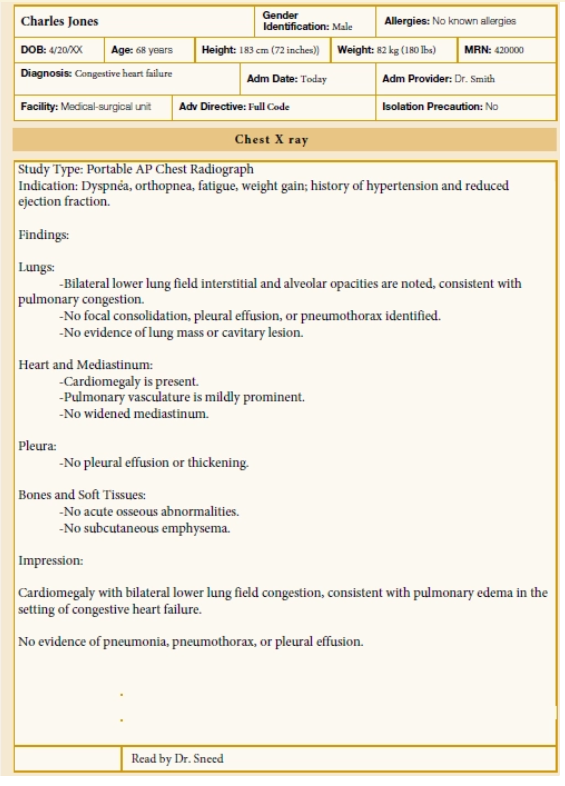
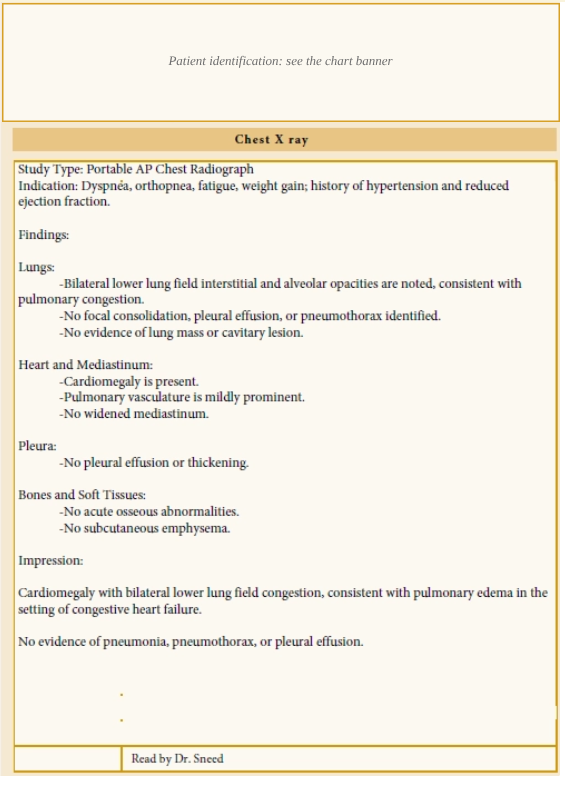
Charles Jones: cover the old patient header on the Echo and admission X-ray sheets
The report sheets' header block (82 kg, MRN 420000, Dr. Smith) is covered with a blank
box ("Patient identification: see the chart banner"). The Echo uses a covered copy,
assets/charles-jones-echo.png; the imported image file is unchanged. Chart data and
wristbands unchanged. Version 2026.11.03-3.

Claude-Session: https://claude.ai/code/session_018ci6X4K4BqD36rfruEnNmX

Changed region(s): [[0.0, 0.0, 0.9929, 0.1527]]

diff --git a/index.html b/index.html
@@ -5,50 +5,50 @@
   <meta name="viewport" content="width=device-width, initial-scale=1">
   <meta name="robots" content="noindex">
   <title>ATU Simulation Hospital EHR</title>
-  <link rel="stylesheet" href="css/styles.css?v=2026.11.03-2">
+  <link rel="stylesheet" href="css/styles.css?v=2026.11.03-3">
 </head>
 <body>
   <div id="app" aria-live="polite"></div>
   <div id="modal-root"></div>
   <noscript>This simulation EHR requires JavaScript.</noscript>
 
-  <script src="js/config.js?v=2026.11.03-2"></script>
-  <script src="js/data/patients.js?v=2026.11.03-2"></script>
-  <script src="js/data/patients-imported.js?v=2026.11.03-2"></script>
-  <script src="js/data/atu-order-updates.js?v=2026.11.03-2"></script>
-  <script src="js/data/atu-scenario-updates.js?v=2026.11.03-2"></script>
-  <script src="js/data/atu-barcodes.js?v=2026.11.03-2"></script>
-  <script src="js/data/charles-single-releases.js?v=2026.11.03-2"></script>
-  <script src="js/data/assessment-forms.js?v=2026.11.03-2"></script>
-  <script src="js/util.js?v=2026.11.03-2"></script>
-  <script src="js/scan.js?v=2026.11.03-2"></script>
-  <script src="js/camera.js?v=2026.11.03-2"></script>
-  <script src="js/store.js?v=2026.11.03-2"></script>
-  <script src="js/shared.js?v=2026.11.03-2"></script>
-  <script src="js/model.js?v=2026.11.03-2"></script>
-  <script src="js/ui.js?v=2026.11.03-2"></script>
-  <script src="js/views/summary.js?v=2026.11.03-2"></script>
-  <script src="js/views/worklist.js?v=2026.11.03-2"></script>
-  <script src="js/views/orders.js?v=2026.11.03-2"></script>
-  <script src="js/views/mar.js?v=2026.11.03-2"></script>
-  <script src="js/views/vitals.js?v=2026.11.03-2"></script>
-  <script src="js/views/assess.js?v=2026.11.03-2"></script>
-  <script src="js/views/newborn.js?v=2026.11.03-2"></script>
-  <script src="js/views/sung-transitional-record.js?v=2026.11.03-2"></script>
-  <script src="js/views/io.js?v=2026.11.03-2"></script>
-  <script src="js/views/notes.js?v=2026.11.03-2"></script>
-  <script src="js/views/results.js?v=2026.11.03-2"></script>
-  <script src="js/views/careplan.js?v=2026.11.03-2"></script>
-  <script src="js/views/history.js?v=2026.11.03-2"></script>
-  <script src="js/views/admin.js?v=2026.11.03-2"></script>
-  <script src="js/views/protocol.js?v=2026.11.03-2"></script>
-  <script src="js/views/heparin.js?v=2026.11.03-2"></script>
-  <script src="js/views/tar.js?v=2026.11.03-2"></script>
-  <script src="js/views/report.js?v=2026.11.03-2"></script>
-  <script src="js/views/extra.js?v=2026.11.03-2"></script>
-  <script src="js/views/chartsearch.js?v=2026.11.03-2"></script>
-  <script src="js/views/app-screens.js?v=2026.11.03-2"></script>
-  <script src="js/views/barcodes.js?v=2026.11.03-2"></script>
-  <script src="js/app.js?v=2026.11.03-2"></script>
+  <script src="js/config.js?v=2026.11.03-3"></script>
+  <script src="js/data/patients.js?v=2026.11.03-3"></script>
+  <script src="js/data/patients-imported.js?v=2026.11.03-3"></script>
+  <script src="js/data/atu-order-updates.js?v=2026.11.03-3"></script>
+  <script src="js/data/atu-scenario-updates.js?v=2026.11.03-3"></script>
+  <script src="js/data/atu-barcodes.js?v=2026.11.03-3"></script>
+  <script src="js/data/charles-single-releases.js?v=2026.11.03-3"></script>
+  <script src="js/data/assessment-forms.js?v=2026.11.03-3"></script>
+  <script src="js/util.js?v=2026.11.03-3"></script>
+  <script src="js/scan.js?v=2026.11.03-3"></script>
+  <script src="js/camera.js?v=2026.11.03-3"></script>
+  <script src="js/store.js?v=2026.11.03-3"></script>
+  <script src="js/shared.js?v=2026.11.03-3"></script>
+  <script src="js/model.js?v=2026.11.03-3"></script>
+  <script src="js/ui.js?v=2026.11.03-3"></script>
+  <script src="js/views/summary.js?v=2026.11.03-3"></script>
+  <script src="js/views/worklist.js?v=2026.11.03-3"></script>
+  <script src="js/views/orders.js?v=2026.11.03-3"></script>
+  <script src="js/views/mar.js?v=2026.11.03-3"></script>
+  <script src="js/views/vitals.js?v=2026.11.03-3"></script>
+  <script src="js/views/assess.js?v=2026.11.03-3"></script>
+  <script src="js/views/newborn.js?v=2026.11.03-3"></script>
+  <script src="js/views/sung-transitional-record.js?v=2026.11.03-3"></script>
+  <script src="js/views/io.js?v=2026.11.03-3"></script>
+  <script src="js/views/notes.js?v=2026.11.03-3"></script>
+  <script src="js/views/results.js?v=2026.11.03-3"></script>
+  <script src="js/views/careplan.js?v=2026.11.03-3"></script>
+  <script src="js/views/history.js?v=2026.11.03-3"></script>
+  <script src="js/views/admin.js?v=2026.11.03-3"></script>
+  <script src="js/views/protocol.js?v=2026.11.03-3"></script>
+  <script src="js/views/heparin.js?v=2026.11.03-3"></script>
+  <script src="js/views/tar.js?v=2026.11.03-3"></script>
+  <script src="js/views/report.js?v=2026.11.03-3"></script>
+  <script src="js/views/extra.js?v=2026.11.03-3"></script>
+  <script src="js/views/chartsearch.js?v=2026.11.03-3"></script>
+  <script src="js/views/app-screens.js?v=2026.11.03-3"></script>
+  <script src="js/views/barcodes.js?v=2026.11.03-3"></script>
+  <script src="js/app.js?v=2026.11.03-3"></script>
 </body>
 </html>

diff --git a/orientation.html b/orientation.html
@@ -5,44 +5,44 @@
   <meta name="viewport" content="width=device-width, initial-scale=1">
   <meta name="robots" content="noindex">
   <title>EMR Orientation — ATU Simulation Hospital</title>
-  <link rel="stylesheet" href="css/styles.css?v=2026.11.03-2">
+  <link rel="stylesheet" href="css/styles.css?v=2026.11.03-3">
 </head>
 <body>
   <div id="app" aria-live="polite"></div>
   <div id="modal-root"></div>
   <noscript>This simulation EHR requires JavaScript.</noscript>
 
-  <script src="js/config.js?v=2026.11.03-2"></script>
-  <script src="js/orientation-config.js?v=2026.11.03-2"></script>
-  <script src="js/data/orientation-patients.js?v=2026.11.03-2"></script>
-  <script src="js/data/assessment-forms.js?v=2026.11.03-2"></script>
-  <script src="js/util.js?v=2026.11.03-2"></script>
-  <script src="js/scan.js?v=2026.11.03-2"></script>
-  <script src="js/camera.js?v=2026.11.03-2"></script>
-  <script src="js/store.js?v=2026.11.03-2"></script>
-  <script src="js/model.js?v=2026.11.03-2"></script>
-  <script src="js/ui.js?v=2026.11.03-2"></script>
-  <script src="js/views/summary.js?v=2026.11.03-2"></script>
-  <script src="js/views/worklist.js?v=2026.11.03-2"></script>
-  <script src="js/views/orders.js?v=2026.11.03-2"></script>
-  <script src="js/views/mar.js?v=2026.11.03-2"></script>
-  <script src="js/views/vitals.js?v=2026.11.03-2"></script>
-  <script src="js/views/assess.js?v=2026.11.03-2"></script>
-  <script src="js/views/io.js?v=2026.11.03-2"></script>
-  <script src="js/views/notes.js?v=2026.11.03-2"></script>
-  <script src="js/views/results.js?v=2026.11.03-2"></script>
-  <script src="js/views/careplan.js?v=2026.11.03-2"></script>
-  <script src="js/views/history.js?v=2026.11.03-2"></script>
-  <script src="js/views/admin.js?v=2026.11.03-2"></script>
-  <script src="js/views/protocol.js?v=2026.11.03-2"></script>
-  <script src="js/views/heparin.js?v=2026.11.03-2"></script>
-  <script src="js/views/tar.js?v=2026.11.03-2"></script>
-  <script src="js/views/report.js?v=2026.11.03-2"></script>
-  <script src="js/views/extra.js?v=2026.11.03-2"></script>
-  <script src="js/views/chartsearch.js?v=2026.11.03-2"></script>
-  <script src="js/views/app-screens.js?v=2026.11.03-2"></script>
-  <script src="js/scorm.js?v=2026.11.03-2"></script>
-  <script src="js/views/tutorial.js?v=2026.11.03-2"></script>
-  <script src="js/app.js?v=2026.11.03-2"></script>
+  <script src="js/config.js?v=2026.11.03-3"></script>
+  <script src="js/orientation-config.js?v=2026.11.03-3"></script>
+  <script src="js/data/orientation-patients.js?v=2026.11.03-3"></script>
+  <script src="js/data/assessment-forms.js?v=2026.11.03-3"></script>
+  <script src="js/util.js?v=2026.11.03-3"></script>
+  <script src="js/scan.js?v=2026.11.03-3"></script>
+  <script src="js/camera.js?v=2026.11.03-3"></script>
+  <script src="js/store.js?v=2026.11.03-3"></script>
+  <script src="js/model.js?v=2026.11.03-3"></script>
+  <script src="js/ui.js?v=2026.11.03-3"></script>
+  <script src="js/views/summary.js?v=2026.11.03-3"></script>
+  <script src="js/views/worklist.js?v=2026.11.03-3"></script>
+  <script src="js/views/orders.js?v=2026.11.03-3"></script>
+  <script src="js/views/mar.js?v=2026.11.03-3"></script>
+  <script src="js/views/vitals.js?v=2026.11.03-3"></script>
+  <script src="js/views/assess.js?v=2026.11.03-3"></script>
+  <script src="js/views/io.js?v=2026.11.03-3"></script>
+  <script src="js/views/notes.js?v=2026.11.03-3"></script>
+  <script src="js/views/results.js?v=2026.11.03-3"></script>
+  <script src="js/views/careplan.js?v=2026.11.03-3"></script>
+  <script src="js/views/history.js?v=2026.11.03-3"></script>
+  <script src="js/views/admin.js?v=2026.11.03-3"></script>
+  <script src="js/views/protocol.js?v=2026.11.03-3"></script>
+  <script src="js/views/heparin.js?v=2026.11.03-3"></script>
+  <script src="js/views/tar.js?v=2026.11.03-3"></script>
+  <script src="js/views/report.js?v=2026.11.03-3"></script>
+  <script src="js/views/extra.js?v=2026.11.03-3"></script>
+  <script src="js/views/chartsearch.js?v=2026.11.03-3"></script>
+  <script src="js/views/app-screens.js?v=2026.11.03-3"></script>
+  <script src="js/scorm.js?v=2026.11.03-3"></script>
+  <script src="js/views/tutorial.js?v=2026.11.03-3"></script>
+  <script src="js/app.js?v=2026.11.03-3"></script>
 </body>
 </html>

diff --git a/labels.html b/labels.html
@@ -87,18 +87,18 @@
       Choose <strong>Linear (1D)</strong> only if your hand scanner reads lines but not squares. Wristbands always carry a linear code and a square code. The number on each label can also be typed into the scan box. Labels include medications from scenario events and orders entered during the sim.</p>
   </div>
   <div id="out"></div>
-  <script src="js/config.js?v=2026.11.03-2"></script>
-  <script src="js/data/patients.js?v=2026.11.03-2"></script>
-  <script src="js/data/patients-imported.js?v=2026.11.03-2"></script>
-  <script src="js/data/atu-order-updates.js?v=2026.11.03-2"></script>
-  <script src="js/data/atu-scenario-updates.js?v=2026.11.03-2"></script>
-  <script src="js/data/atu-barcodes.js?v=2026.11.03-2"></script>
-  <script src="js/data/charles-single-releases.js?v=2026.11.03-2"></script>
-  <script src="js/util.js?v=2026.11.03-2"></script>
-  <script src="js/scan.js?v=2026.11.03-2"></script>
-  <script src="js/store.js?v=2026.11.03-2"></script>
-  <script src="js/model.js?v=2026.11.03-2"></script>
-  <script src="js/datamatrix.js?v=2026.11.03-2"></script>
+  <script src="js/config.js?v=2026.11.03-3"></script>
+  <script src="js/data/patients.js?v=2026.11.03-3"></script>
+  <script src="js/data/patients-imported.js?v=2026.11.03-3"></script>
+  <script src="js/data/atu-order-updates.js?v=2026.11.03-3"></script>
+  <script src="js/data/atu-scenario-updates.js?v=2026.11.03-3"></script>
+  <script src="js/data/atu-barcodes.js?v=2026.11.03-3"></script>
+  <script src="js/data/charles-single-releases.js?v=2026.11.03-3"></script>
+  <script src="js/util.js?v=2026.11.03-3"></script>
+  <script src="js/scan.js?v=2026.11.03-3"></script>
+  <script src="js/store.js?v=2026.11.03-3"></script>
+  <script src="js/model.js?v=2026.11.03-3"></script>
+  <script src="js/datamatrix.js?v=2026.11.03-3"></script>
   <script src="js/vendor/qrcode-generator-1.4.4.js"></script>
   <script src="https://cdn.jsdelivr.net/npm/jsbarcode@3.11.6/dist/JsBarcode.all.min.js"></script>
   <script>

diff --git a/js/data/charles-single-releases.js b/js/data/charles-single-releases.js
@@ -40,8 +40,13 @@
   // 3. Spironolactone: frequency Daily, no hold reason (dose, route, status, and the "Hold spironolactone" release unchanged).
   const spiro = (p.meds || []).find(m => m.id === 'char-spironolactone-8');
   if (spiro) { spiro.freq = 'Daily'; delete spiro.holdReason; }
-  // 4. Echo and ECG (charlesjones-im1, -im2) stay as they are under Diagnostics > Cardiovascular.
-  // 5. Admission chest X-ray: part of the admission chart (not a release). Image: the faculty's report sheet.
+  // 4. Echo and ECG (charlesjones-im1, -im2) stay under Diagnostics > Cardiovascular. The Echo report sheet's patient
+  //    header (old weight / MRN / provider) is covered on a copy, assets/charles-jones-echo.png (the imported file is
+  //    unchanged); the chart's own patient data stays as is (wristbands are already printed).
+  const echo = p.imaging.find(i => i.id === 'charlesjones-im1');
+  if (echo) echo.images = ['assets/charles-jones-echo.png'];
+  // 5. Admission chest X-ray: part of the admission chart (not a release). Image: the faculty's report sheet, with its
+  //    patient header covered the same way.
   if (!p.imaging.some(i => i.id === 'charlesjones-im-cxr-adm')) p.imaging.push({ id: 'charlesjones-im-cxr-adm', study: 'Admission Chest X-ray', at: -180, images: ['assets/charles-jones-admission-cxr.png'],
     text: 'Study Type: Portable AP Chest Radiograph\n' +
       'Indication: Dyspnea, orthopnea, fatigue, weight gain; history of hypertension and reduced ejection fraction.\n' +

diff --git a/js/config.js b/js/config.js
@@ -7,7 +7,7 @@ window.EHR_CONFIG = {
   systemName: 'SimEHR',
   // Shown on the sign-in screen. Also bump ?v= in index.html, orientation.html, and labels.html when files change,
   // so browsers (older iPads especially) load the new files instead of a saved copy.
-  version: '2026.11.03-2',
+  version: '2026.11.03-3',
 
   // Toolbar Help button: HTML shown in the Help window (e.g., '<p>…</p><ul><li>…</li></ul>'). Empty = "will be added".
   helpHtml: '',
